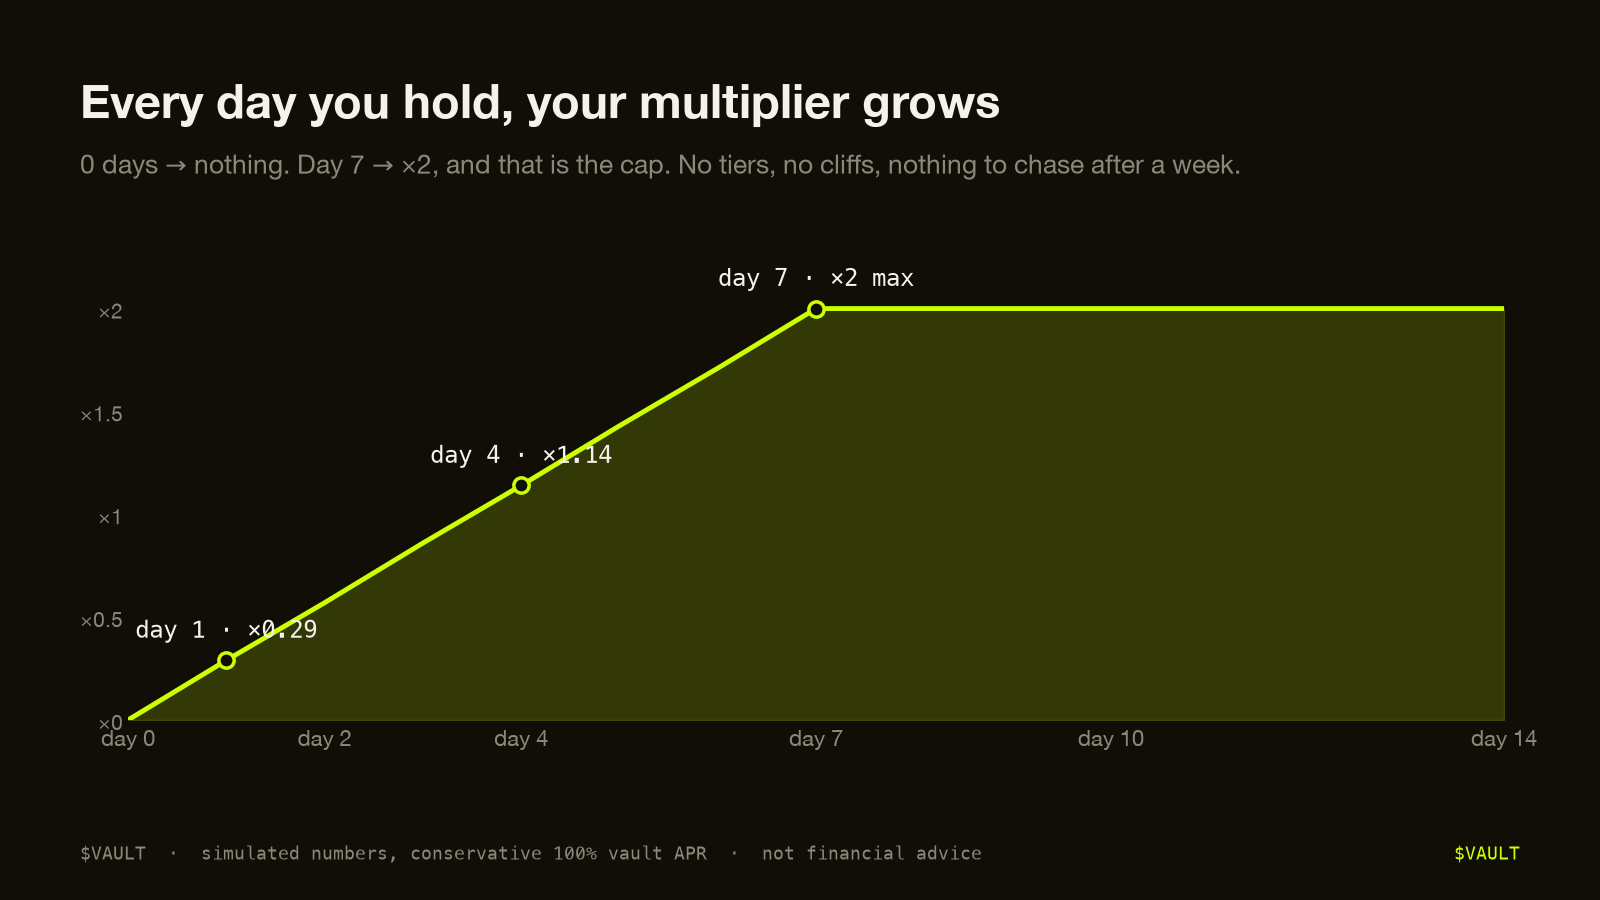
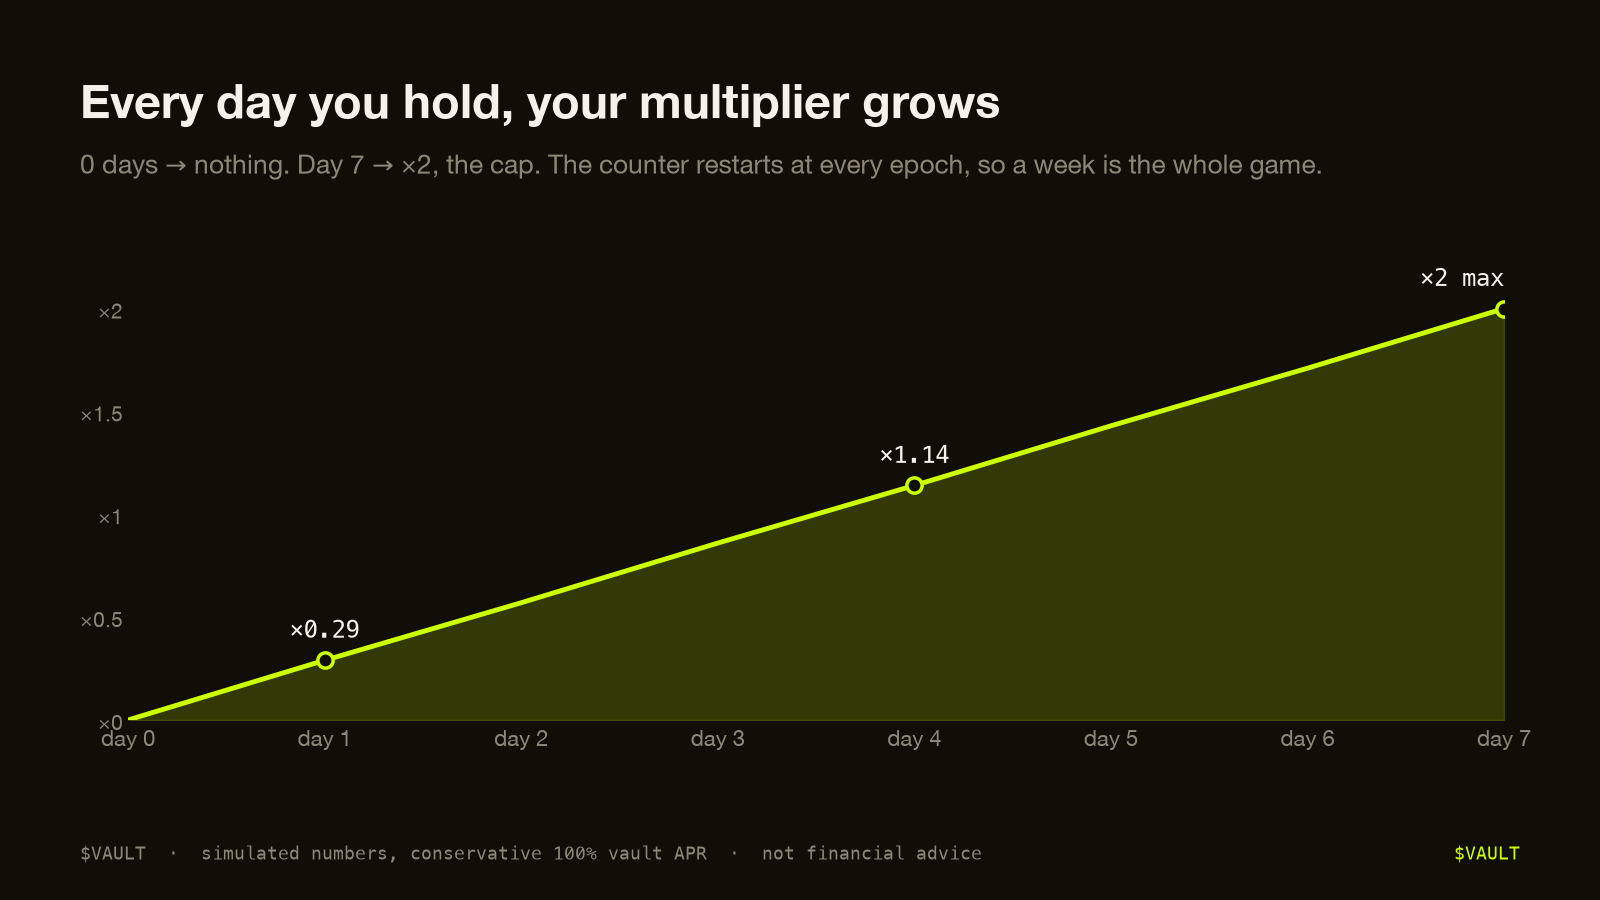
Multiplier scale ends at day 7: the counter restarts each epoch

diff --git a/app.js b/app.js
@@ -290,7 +290,7 @@
     ctx.beginPath(); for (let i = 0; i <= MAX; i++) i ? ctx.lineTo(x(i), y(holdMult(i))) : ctx.moveTo(x(i), y(holdMult(i))); ctx.strokeStyle = lime; ctx.lineWidth = 2; ctx.stroke();
     ctx.fillStyle = css('--bg'); ctx.beginPath(); ctx.arc(x(d), y(m), 5, 0, 7); ctx.fill(); ctx.strokeStyle = lime; ctx.lineWidth = 2; ctx.stroke();
     ctx.fillStyle = muted; ctx.font = '10px ' + css('--mono'); ctx.textAlign = 'left'; ctx.fillText('day 0', padL, h - 4);
-    ctx.textAlign = 'center'; ctx.fillText('day 7 · ×2 max', x(7), h - 4);
+    ctx.textAlign = 'right'; ctx.fillText('day 7 · ×2 max · epoch resets', w, h - 4);
     ctx.font = '600 14px ' + css('--mono'); ctx.fillStyle = lime;
     ctx.textAlign = d > MAX * 0.72 ? 'right' : 'left';
     ctx.fillText(d > MAX * 0.72 ? '×' + m.toFixed(2) + '  ' : '  ×' + m.toFixed(2), x(d), y(m) - 12);

diff --git a/index.html b/index.html
@@ -356,7 +356,7 @@
           <div class="loyal__sim-head"><span class="k">Try it</span><span class="v">Days held without selling → multiplier</span></div>
           <div class="ctrl">
             <div class="ctrl__head"><label for="heldDays">Days held without selling</label><span class="mono" id="heldDaysOut">7 days</span></div>
-            <input type="range" id="heldDays" min="0" max="10" value="7">
+            <input type="range" id="heldDays" min="0" max="7" value="7">
           </div>
           <canvas id="loyalChart" height="120"></canvas>
           <div class="loyal__out">

diff --git a/charts/gen_charts.py b/charts/gen_charts.py
@@ -109,13 +109,13 @@ f.text(0.5, 0.25, "Excluded wallets don’t get a smaller slice. They get zero.\
 save(f, "07_verified_vs_excluded.png")
 
 # 08 multiplier curve
-f = fig("Every day you hold, your multiplier grows", "0 days → nothing. Day 7 → ×2, and that is the cap. No tiers, no cliffs, nothing to chase after a week.")
+f = fig("Every day you hold, your multiplier grows", "0 days → nothing. Day 7 → ×2, the cap. The counter restarts at every epoch, so a week is the whole game.")
 ax = f.add_axes([0.08, 0.2, 0.86, 0.56]); clean(ax, left=True)
-days = list(range(0, 15)); ms = [mult(d) for d in days]
+days = list(range(0, 8)); ms = [mult(d) for d in days]
 ax.fill_between(days, ms, color=LIME, alpha=.18); ax.plot(days, ms, color=LIME, lw=3.5)
-for d in (1, 4, 7): ax.plot([d], [mult(d)], "o", ms=11, mfc=BG, mec=LIME, mew=2.5); ax.text(d, mult(d) + 0.11, f"day {d} · ×{mult(d):g}" + (" max" if d >= 7 else ""), ha="center", fontsize=17, family=MONO)
-ax.set_xlim(0, 14); ax.set_ylim(0, 2.45); ax.set_yticks([0, 0.5, 1, 1.5, 2]); ax.set_yticklabels(["×0", "×0.5", "×1", "×1.5", "×2"], fontsize=15)
-ax.set_xticks([0, 2, 4, 7, 10, 14]); ax.set_xticklabels(["day 0", "day 2", "day 4", "day 7", "day 10", "day 14"], fontsize=16)
+for d in (1, 4, 7): ax.plot([d], [mult(d)], "o", ms=11, mfc=BG, mec=LIME, mew=2.5); ax.text(d, mult(d) + 0.11, f"×{mult(d):g}" + (" max" if d >= 7 else ""), ha="right" if d == 7 else "center", fontsize=17, family=MONO)
+ax.set_xlim(0, 7); ax.set_ylim(0, 2.45); ax.set_yticks([0, 0.5, 1, 1.5, 2]); ax.set_yticklabels(["×0", "×0.5", "×1", "×1.5", "×2"], fontsize=15)
+ax.set_xticks(range(8)); ax.set_xticklabels([f"day {d}" for d in range(8)], fontsize=16)
 save(f, "08_multiplier_curve.png")
 
 # 09 payout per 1M tokens by days held (week 8 pool)
